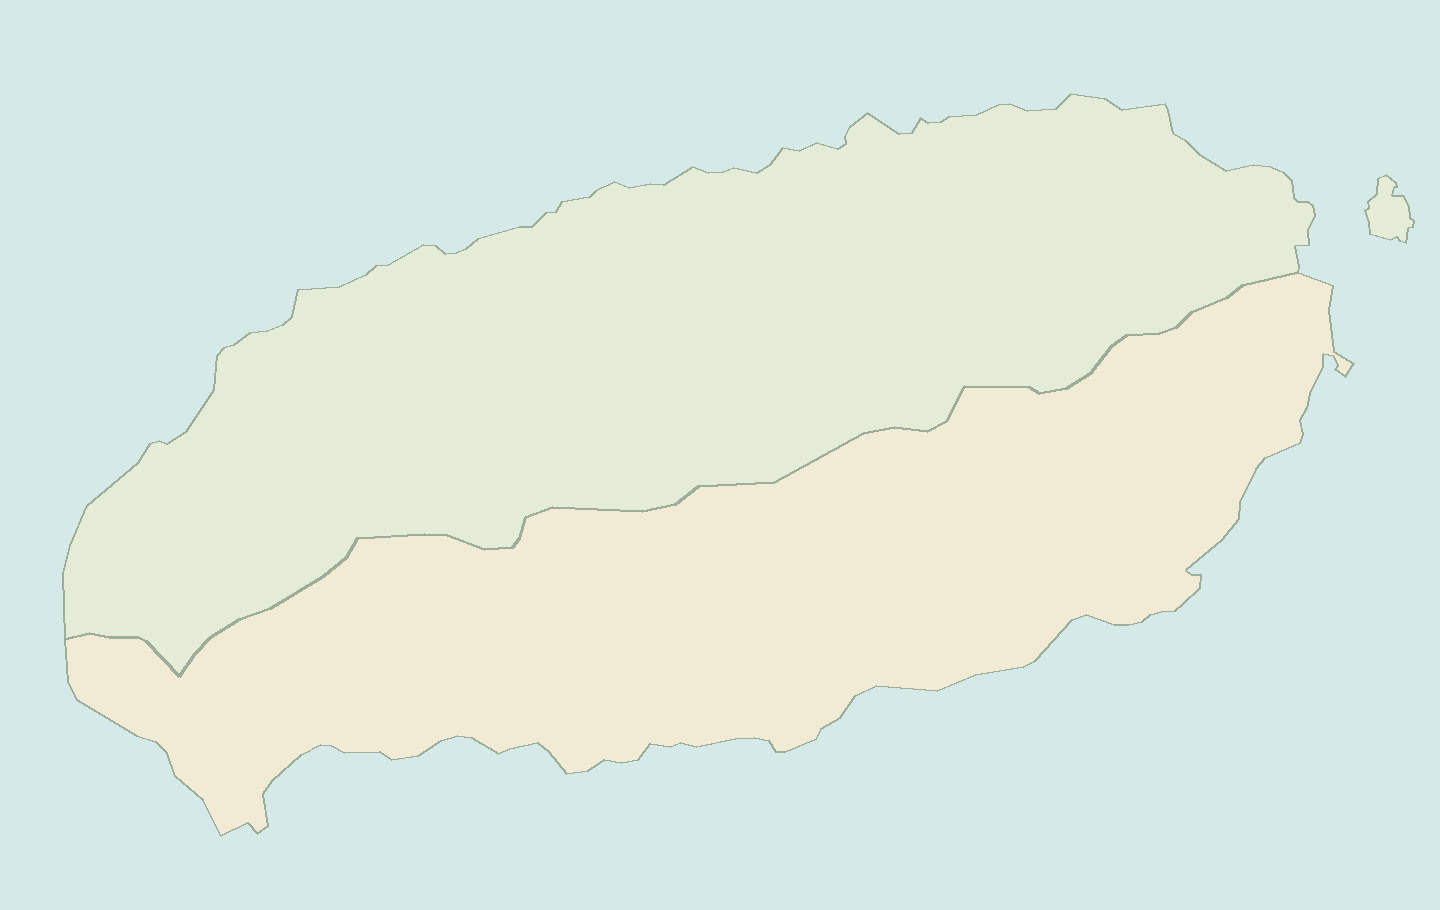
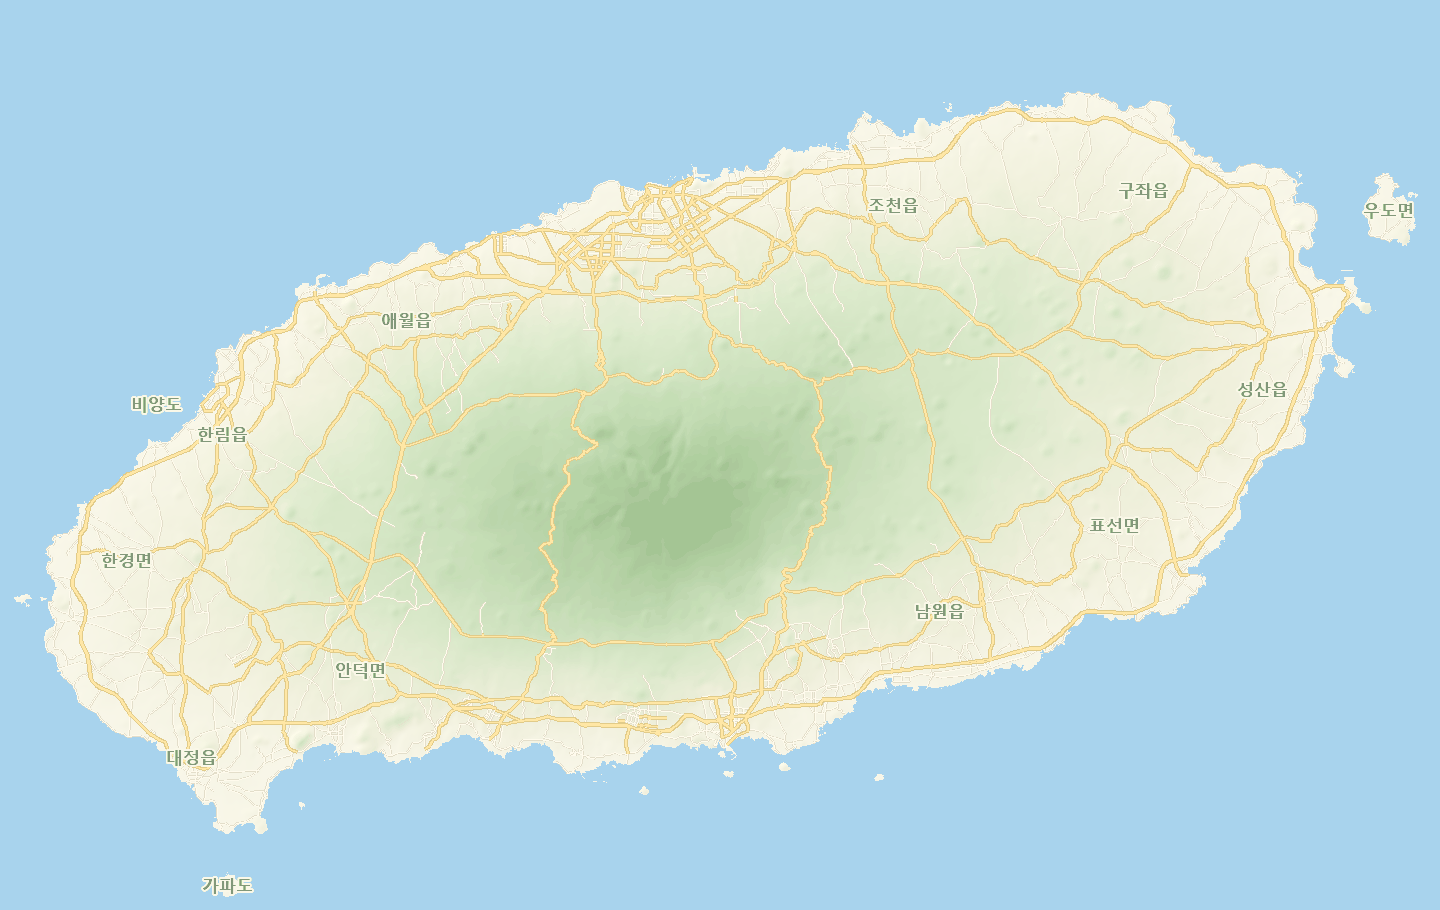
Draw Jeju visitor basemap with roads, coastline and elevation relief

diff --git a/field_guide/map.html b/field_guide/map.html
@@ -56,6 +56,7 @@
               </div>
             </div>
             <figcaption>
+              <small class="basemap-credit">도로·해안선 © <a href="https://www.openstreetmap.org/copyright">OpenStreetMap 기여자</a> · <a href="https://registry.opendata.aws/terrain-tiles/">고도 자료</a></small>
               <div id="pin-key" hidden><span>생태공원·수목원</span><span>관광지</span></div>
               <details id="map-options"><summary>지도 설정</summary>
               <label class="grade-toggle"><input type="checkbox" id="grades" />생태·자연도 겹쳐 보기</label>
@@ -80,6 +81,7 @@
         <summary>지도와 관찰 기록의 출처</summary>
         <p>관광지는 <a href="https://www.data.go.kr/data/15049995/fileData.do">제주관광공사 VISIT JEJU 여행장소</a>에서 이름을 대조하고 관광 안내나 운영기관 자료에서 위치를 확인했습니다. 기존 탐방지도 함께 표시합니다. 1100고지는 남북에 걸쳐 있어 휴게소 쪽 접근로를 기준으로 서귀포시에 넣었습니다. 동물 카드마다 현장 관찰, 서식 자료, 보호·사육 안내의 출처를 볼 수 있습니다.</p>
         <p>관찰 기록 탭에는 프로젝트가 선별한 GBIF 자료를 행정시 단위로 표시합니다. 관광지별 동물 자료는 각 장소의 출처를 따릅니다.</p>
+        <p>기본 지도는 <a href="https://versatiles.org/">VersaTiles</a>가 제공하는 OpenStreetMap 도로·해안선·지명과 <a href="https://registry.opendata.aws/terrain-tiles/">Mapzen 지형 고도 자료</a>를 같은 좌표계로 투영해 그렸습니다.</p>
         <p>행정 경계는 <a href="https://github.com/wmgeolab/geoBoundaries/tree/9469f09/releaseData/gbOpen/KOR/ADM2">geoBoundaries gbOpen KOR ADM2</a> (citypopulation.de, <a href="https://creativecommons.org/licenses/by/3.0/">CC BY 3.0</a>)를 가공했습니다. 선택형 생태·자연도에는 국립생태원 에코뱅크 제주 배포본(고시 제2026-128호, 2026.05.26)과 Natural Earth 해안선을 사용했습니다.</p>
         <p><a href="https://www.nie-ecobank.kr/opn/file/list.do?svcId=101&amp;unitCode=U004&amp;unitSeRealCode=50&amp;unit=U004&amp;unitSeCode=50">공식 공간자료 ↗</a>　<a href="/ecology">생태자연도 원자료 →</a></p>
       </details>

diff --git a/field_guide/map.css b/field_guide/map.css
@@ -408,8 +408,8 @@
 .visit-layout .map-viewport { background: #d6e9e9; }
 .visit-layout #viewport:not(:has(.zoomed)) { display: grid; grid-template-columns: minmax(0,1fr); align-items: center; }
 #districts { position: absolute; inset: 0; width: 100%; height: 100%; pointer-events: none; }
-#districts path { fill: #45785417; }
-#districts path[data-zone="seogwipo"] { fill: #c8a65b15; }
+#districts path { fill: transparent; }
+
 .show-grades #districts path { fill: transparent; }
 .mini-dot { position: absolute; transform: translate(-50%,-50%); }
 .layer-note { margin: 5px 0 10px; font-size: 14px; color: var(--muted); }
@@ -561,3 +561,11 @@
 .map-point.place-label { width: max-content; max-width: 146px; height: auto; min-height: 32px; padding: 5px 8px; border: 1px solid var(--pin-color); border-top: 3px solid var(--pin-color); border-radius: 8px; background: #fffef9; box-shadow: 0 2px 6px #25432b33; color: #20382a; text-align: center; font-size: 12px; line-height: 1.3; }
 .place-label:after { content: ""; position: absolute; bottom: -5px; width: 7px; height: 7px; transform: rotate(45deg); background: #fffef9; border: solid var(--pin-color); border-width: 0 1px 1px 0; }
 .place-label small { display: block; font-size: 10px; color: #435e47; }
+
+.map-viewport, .visit-layout .map-viewport { background: #a8d3ed; }
+.map-stage .geo { pointer-events: none; color: #394e48; text-shadow: 0 1px 2px #fff, 1px 0 2px #fff; }
+.map-stage .jeju-city { left: 46%; top: 21%; }
+.map-stage .mountain { left: 47.9%; top: 53.8%; color: #38583c; }
+.map-stage:not([data-layer="records"]) .south { left: 51.5%; top: 78%; }
+.basemap-credit { display: block; text-align: right; margin: 5px 2px; color: #536a68; font-size: 10px; }
+.basemap-credit a { text-decoration: underline; }
